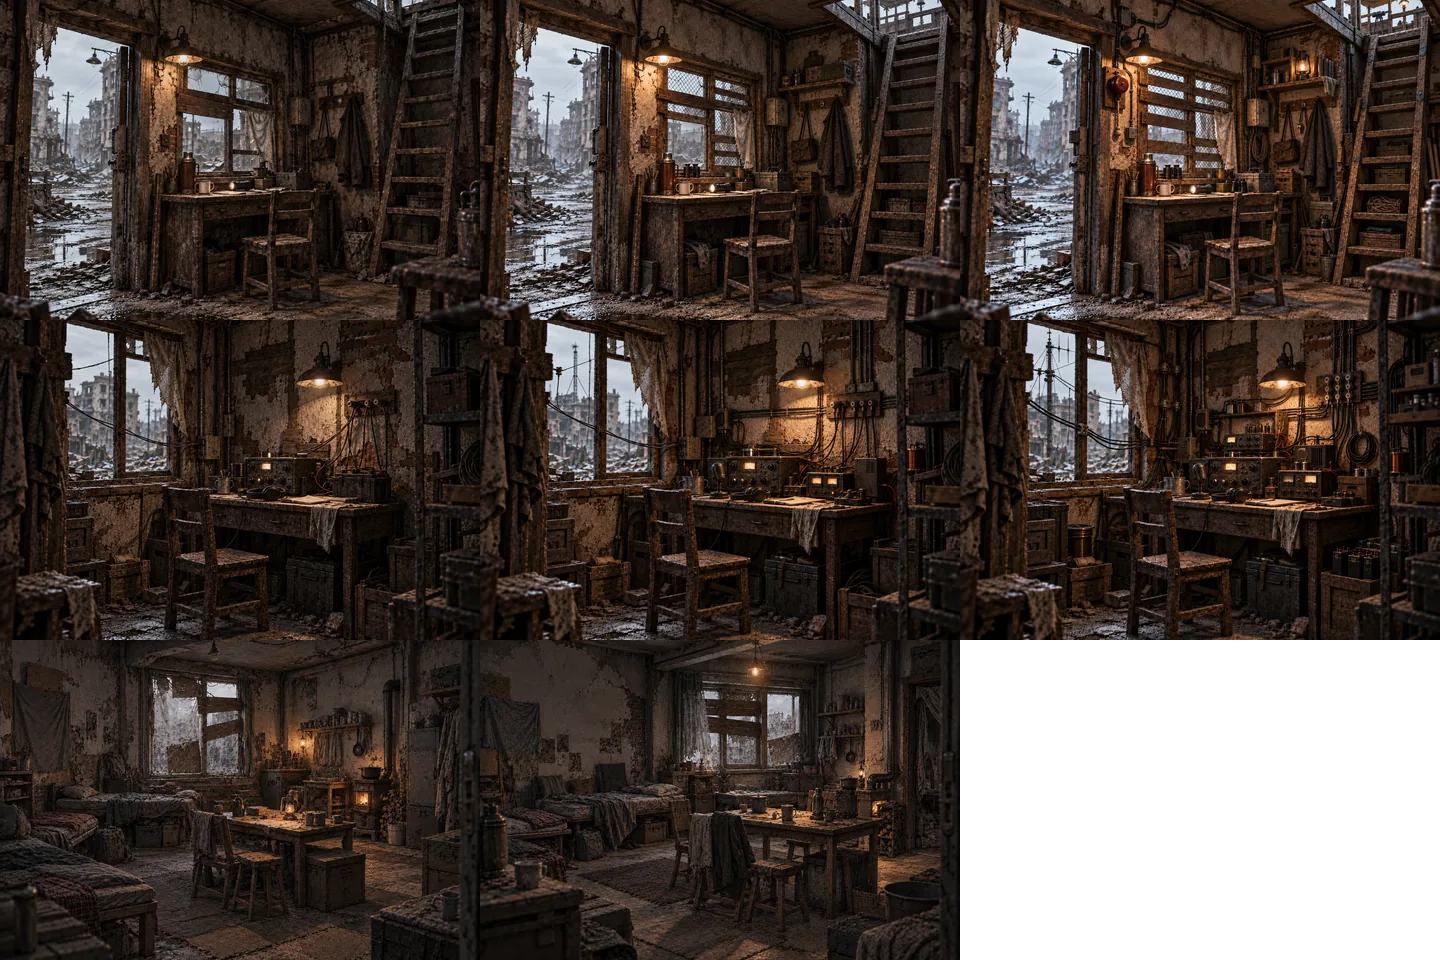
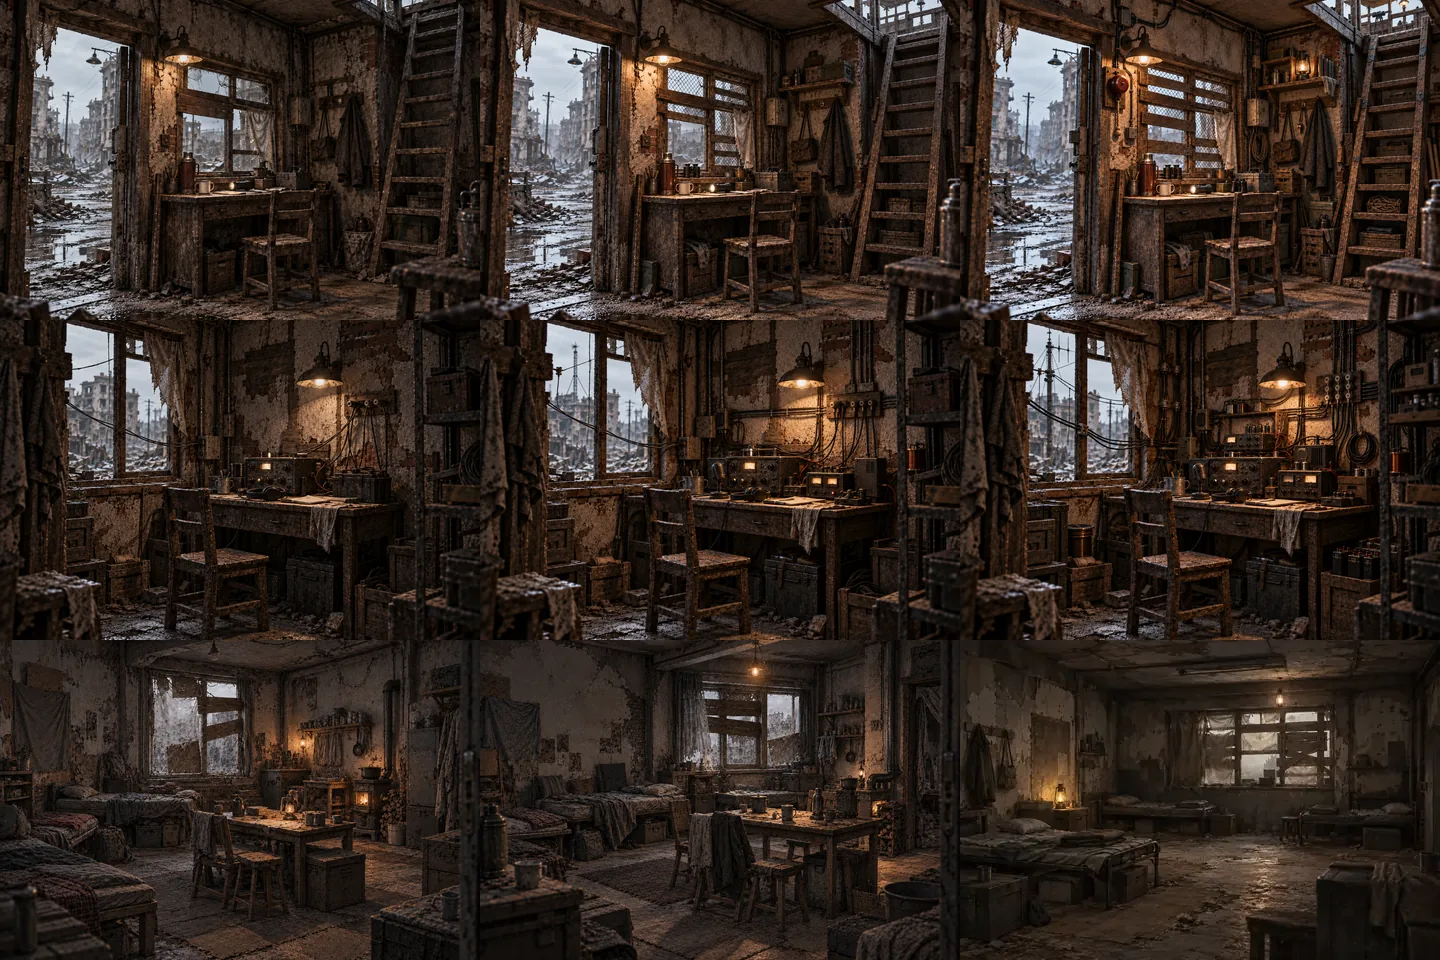
fix(assets): map dedicated shelter lv1 visual (#41)

Changed region(s): [[0.6562, 0.6562, 1.0, 1.0]]

diff --git a/src/ui/visualAssets.ts b/src/ui/visualAssets.ts
@@ -30,13 +30,13 @@ const SPRITES: readonly SpriteGroup[] = [
   { path: '/assets/canonical/events-b1.webp', columns: 3, rows: 1, ids: ['A24', 'A25', 'A26'] },
   { path: '/assets/canonical/events-b2.webp', columns: 3, rows: 1, ids: ['A27', 'A28', 'A29'] },
   { path: '/assets/canonical/buildings-a.webp', columns: 3, rows: 3, ids: ['A30', 'A31', 'A32', 'A33', 'A34', 'A35', 'A36', 'A37', 'A38'] },
-  { path: '/assets/canonical/buildings-b.webp', columns: 3, rows: 3, ids: ['A39', 'A40', 'A41', 'A42', 'A43', 'A44', 'A45', 'A46'] },
+  { path: '/assets/canonical/buildings-b.webp', columns: 3, rows: 3, ids: ['A39', 'A40', 'A41', 'A42', 'A43', 'A44', 'A45', 'A46', 'A47'] },
 ] as const;
 
 /**
  * Canonical art registry for Ember Street.
  * A-numbers are production identifiers only; player-facing UI uses world/gameplay copy.
- * A01-A46 are local, locked runtime masters. Building visuals carry explicit Lv1-Lv3
+ * A01-A47 are local, locked runtime masters. Building visuals carry explicit Lv1-Lv3
  * metadata so the repair page can show the same facility changing as the player upgrades it.
  */
 export const CANONICAL_VISUAL_ASSETS: readonly VisualAsset[] = [
@@ -45,7 +45,7 @@ export const CANONICAL_VISUAL_ASSETS: readonly VisualAsset[] = [
   { canonicalId: 'A03', kind: 'location', title: '便利店', gameplayId: 'convenience-store', status: 'locked' },
   { canonicalId: 'A04', kind: 'location', title: '西街药店', gameplayId: 'west-pharmacy', status: 'locked' },
   { canonicalId: 'A05', kind: 'event', title: '半开的卷帘门', gameplayId: 'convenience-half-shutter', continuityId: 'convenience-store', status: 'locked' },
-  { canonicalId: 'A06', kind: 'building', title: '宿营屋 · 初级状态', gameplayId: 'shelter', level: 1, status: 'locked' },
+  { canonicalId: 'A06', kind: 'building', title: '宿营屋 · 据点总览', gameplayId: 'shelter', status: 'locked' },
   { canonicalId: 'A07', kind: 'character', title: '阿禾', gameplayId: 'ahe', status: 'locked' },
   { canonicalId: 'A08', kind: 'character', title: '程医生', gameplayId: 'cheng', status: 'locked' },
   { canonicalId: 'A09', kind: 'character', title: '阿梁', gameplayId: 'aliang', status: 'locked' },
@@ -86,6 +86,7 @@ export const CANONICAL_VISUAL_ASSETS: readonly VisualAsset[] = [
   { canonicalId: 'A44', kind: 'building', title: '广播间 · Lv3', gameplayId: 'radio', level: 3, status: 'locked' },
   { canonicalId: 'A45', kind: 'building', title: '宿营屋 · Lv2', gameplayId: 'shelter', level: 2, status: 'locked' },
   { canonicalId: 'A46', kind: 'building', title: '宿营屋 · Lv3', gameplayId: 'shelter', level: 3, status: 'locked' },
+  { canonicalId: 'A47', kind: 'building', title: '宿营屋 · Lv1', gameplayId: 'shelter', level: 1, status: 'locked' },
 ] as const;
 
 export const UNRESOLVED_CANONICAL_IDS = [] as const;

diff --git a/tests/building-visual-levels.test.ts b/tests/building-visual-levels.test.ts
@@ -3,8 +3,9 @@ import { buildingVisual, visualAssetStyle } from '../src/ui/visualAssets';
 
 describe('level-specific building visuals', () => {
   it('keeps Lv0 on the Lv1 visual and selects all three shelter levels', () => {
-    expect(buildingVisual('shelter', 0)?.canonicalId).toBe('A06');
-    expect(buildingVisual('shelter', 1)?.canonicalId).toBe('A06');
+    expect(buildingVisual('shelter')?.canonicalId).toBe('A06');
+    expect(buildingVisual('shelter', 0)?.canonicalId).toBe('A47');
+    expect(buildingVisual('shelter', 1)?.canonicalId).toBe('A47');
     expect(buildingVisual('shelter', 2)?.canonicalId).toBe('A45');
     expect(buildingVisual('shelter', 3)?.canonicalId).toBe('A46');
   });
@@ -27,6 +28,11 @@ describe('level-specific building visuals', () => {
       backgroundImage: 'url(/assets/canonical/buildings-b.webp)',
       backgroundSize: '300% 300%',
       backgroundPosition: '50% 100%',
+    });
+    expect(visualAssetStyle(buildingVisual('shelter', 1))).toMatchObject({
+      backgroundImage: 'url(/assets/canonical/buildings-b.webp)',
+      backgroundSize: '300% 300%',
+      backgroundPosition: '100% 100%',
     });
   });
 });

diff --git a/scripts/build-building-visual-sprites.py b/scripts/build-building-visual-sprites.py
@@ -28,8 +28,8 @@ groups = (
     ),
     (
         "buildings-b.webp",
-        tuple(f"A{i}" for i in range(39, 47)),
[1 lines of base64/hex data omitted]
+        tuple(f"A{i}" for i in range(39, 48)),
[1 lines of base64/hex data omitted]
     ),
 )
 
@@ -87,7 +87,7 @@ try:
 
     for temporary, destination in temporary_outputs:
         os.replace(temporary, destination)
-    print("Building sprites rebuilt byte-identically to the frozen A30-A46 release.")
+    print("Building sprites rebuilt byte-identically to the frozen A30-A47 release.")
 except Exception:
     for temporary, _ in temporary_outputs:
         temporary.unlink(missing_ok=True)

diff --git a/docs/CANONICAL_ASSET_IMPORT.md b/docs/CANONICAL_ASSET_IMPORT.md
@@ -1,6 +1,6 @@
 # Ember Street — Canonical Visual Asset Runtime Contract
 
-A01–A46 are the current locked visual registry for the mobile UI. A01–A29 remain the previously approved baseline; A30–A46 add level-specific building visuals while A06 continues to serve as the Shelter Lv1 master.
+A01–A47 are the current locked visual registry for the mobile UI. A01–A29 remain the previously approved baseline; A30–A47 add level-specific building visuals. A47 is the dedicated Shelter Lv1 repair-page master, while A06 remains the general shelter overview used outside level-specific selection.
 
 ## Release rules
 
@@ -13,7 +13,7 @@ A01–A46 are the current locked visual registry for the mobile UI. A01–A29 re
    - `npm run build`
    - `npm run audit:xhs`
    - `npm run test:ui-smoke`
-6. The strict asset audit verifies file existence, RIFF/WebP headers, declared-vs-actual byte length, registry continuity, sprite coverage, and the frozen SHA-256 values for the A30–A46 building sheets. A truncated, substituted, or accidentally re-encoded building sheet therefore fails CI.
+6. The strict asset audit verifies file existence, RIFF/WebP headers, declared-vs-actual byte length, registry continuity, sprite coverage, and the frozen SHA-256 values for the A30–A47 building sheets. A truncated, substituted, or accidentally re-encoded building sheet therefore fails CI.
 7. Final visual QA uses real-image browser screenshots at 390×844, checking crop, focal point, building-level readability, first-screen CTA visibility, and absence of player-visible production IDs.
 
 ## Canonical mapping
@@ -25,7 +25,7 @@ A01–A46 are the current locked visual registry for the mobile UI. A01–A29 re
 | A03 | 便利店 | `convenience-store` |
 | A04 | 西街药店 | `west-pharmacy` |
 | A05 | 半开的卷帘门 | `convenience-half-shutter` |
-| A06 | 宿营屋 · Lv1 | `shelter` |
+| A06 | 宿营屋 · 据点总览 | `shelter` |
 | A07 | 阿禾 | `ahe` |
 | A08 | 程医生 | `cheng` |
 | A09 | 阿梁 | `aliang` |
@@ -66,6 +66,7 @@ A01–A46 are the current locked visual registry for the mobile UI. A01–A29 re
 | A44 | 广播间 · Lv3 | `radio` |
 | A45 | 宿营屋 · Lv2 | `shelter` |
 | A46 | 宿营屋 · Lv3 | `shelter` |
+| A47 | 宿营屋 · Lv1 | `shelter` |
 
 ## Building visual contract
 
@@ -74,26 +75,26 @@ The six facilities have Lv0–3 runtime state. Lv0 deliberately reuses the Lv1 a
 - Lv1, Lv2 and Lv3 for one building depict the same functional place and preserve the same overall room identity.
 - Upgrade feedback comes from repair, restored utilities, additional functional equipment and long-term use; it must not read as a wealth or technology upgrade.
 - Lv3 remains a civilian disaster-survival space, not a military base, command center, professional hospital, industrial workshop or modern broadcast station.
-- A06 remains the authoritative Shelter Lv1 master. A45/A46 preserve its room language and extend cooking, storage and long-term use.
+- A47 is the authoritative Shelter Lv1 building-card master. A45/A46 continue the progression into cooking, storage and long-term use. A06 remains the general shelter overview for non-level-specific contexts.
 - Runtime selection is `buildingVisual(buildingId, level)`. Lv0 is clamped to Lv1.
 
 ## Building asset build procedure
 
-Approved masters use canonical file names `A30.png` through `A46.png` in a staging directory. Run:
+Approved masters use canonical file names `A30.png` through `A47.png` (PNG/JPG/JPEG/WebP are accepted) in a staging directory. Run:
 
 `npm run build:building-assets -- <staging-directory>`
 
 The script normalizes each tile to 480×320 and writes two 1440×960 WebP sheets at quality 82:
 
 - `public/assets/canonical/buildings-a.webp` — A30–A38
-- `public/assets/canonical/buildings-b.webp` — A39–A46
+- `public/assets/canonical/buildings-b.webp` — A39–A47
 
 The script refuses missing masters rather than silently producing an incomplete runtime sheet. The approved release binaries are frozen by hash; after rebuilding, `npm run audit:assets:strict` is the authority for whether the result is byte-identical to the locked release artifact.
 
 Frozen release hashes:
 
[3 lines of base64/hex data omitted]
 
 ## Runtime files
 
@@ -107,7 +108,7 @@ The local release package contains nine verified WebP sheets:
 - `public/assets/canonical/events-b1.webp` — A24, A25, A26
 - `public/assets/canonical/events-b2.webp` — A27, A28, A29
 - `public/assets/canonical/buildings-a.webp` — A30–A38
-- `public/assets/canonical/buildings-b.webp` — A39–A46
+- `public/assets/canonical/buildings-b.webp` — A39–A47
 
 The production mapping lives in `src/ui/visualAssets.ts`. React renders the local sheets directly through CSS background positioning. Obsolete one-file-per-A SVG wrappers and truncated sprite files are intentionally excluded from the runtime package.
 
@@ -120,4 +121,4 @@ The authoritative source uploads for this import were:
 
 Both packages were explicitly confirmed by the user as containing previously reviewed, compliant project imagery. Where a package contained early/reference and later clean variants, the runtime package uses the selected final master while the source package remains the provenance record.
 
-The A30–A46 building expansion was reviewed separately as a level-specific set. Its final selected masters are normalized into the two building sprite sheets above; staging/source files are not required at runtime.
+The A30–A47 building expansion was reviewed separately as a level-specific set. A47 was added specifically to stop Shelter Lv1 from reusing the old A06 overview. Final selected masters are normalized into the two building sprite sheets above; staging/source files are not required at runtime.
